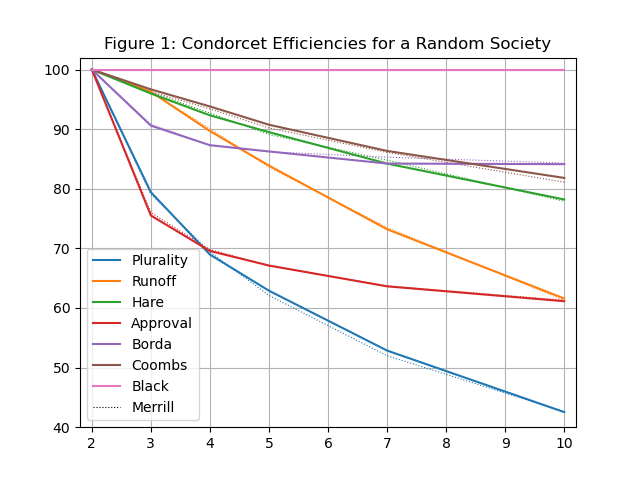
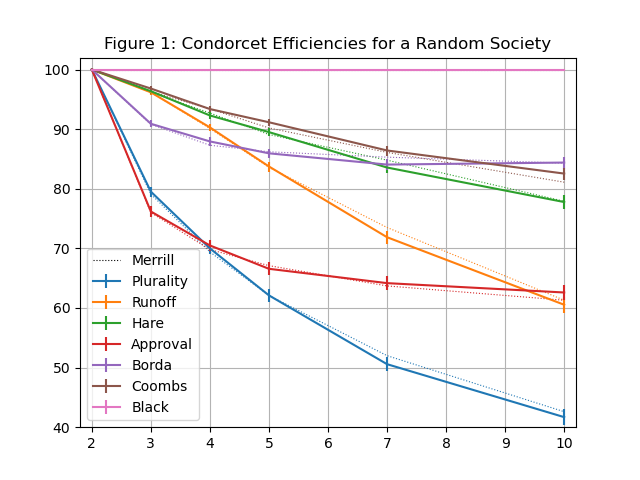
Add error bars to CE and CW likelihood examples
These are also Bernoulli yes/no trials that produce binomial
distributions.

Update results images

diff --git a/examples/wikipedia_condorcet_paradox_likelihood.py b/examples/wikipedia_condorcet_paradox_likelihood.py
@@ -21,10 +21,10 @@ With n_elections = 10_000_000 (which takes forever):
 
 """
 from collections import Counter
-
 import matplotlib.pyplot as plt
 import numpy as np
 from joblib import Parallel, delayed
+from scipy.stats import binomtest
 from tabulate import tabulate
 
 from elsim.elections import impartial_culture
@@ -75,7 +75,14 @@ plt.plot(x, y, label='WP')
 
 x, y = zip(*sorted(condorcet_paradox_counts.items()))
 CP = np.asarray(y) / n_elections  # Likelihood of paradox
-plt.plot(x, CP*100, '-', label='Simulation')
+
+# Add 95% confidence interval error bars (Clopper-Pearson exact method)
+ci = np.empty((2, len(y)))
+for i in range(len(y)):
+    ci[:, i] = binomtest(y[i], n_elections).proportion_ci()
+yerr = ci - CP
+yerr[0] = -yerr[0]
+plt.errorbar(x, CP*100, yerr*100, fmt='-', label='Simulation')
 
 plt.legend()
 plt.grid(True, color='0.7', linestyle='-', which='major', axis='both')

diff --git a/examples/merrill_1984_table_1_fig_1.py b/examples/merrill_1984_table_1_fig_1.py
@@ -29,6 +29,7 @@ from collections import Counter
 
 import matplotlib.pyplot as plt
 import numpy as np
+from scipy.stats import binomtest
 from tabulate import tabulate
 
 from elsim.elections import random_utilities
@@ -115,7 +116,14 @@ for method in ('Plurality', 'Runoff', 'Hare', 'Approval', 'Borda', 'Coombs',
                'Black'):
     x, y = zip(*sorted(condorcet_winner_count[method].items()))
     CE = np.array(y)/y_cw
-    plt.plot(x, CE*100, '-', label=method)
+
+    # Add 95% confidence interval error bars (Clopper-Pearson exact method)
+    ci = np.empty((2, len(y)))
+    for i in range(len(y)):
+        ci[:, i] = binomtest(y[i], y_cw[i]).proportion_ci()
+    yerr = ci - CE
+    yerr[0] = -yerr[0]
+    plt.errorbar(x, CE*100, yerr*100, fmt='-', label=method)
     table.append([method, *np.array(y)/y_cw*100])
 
 # Likelihood that social utility maximizer is Condorcet Winner
